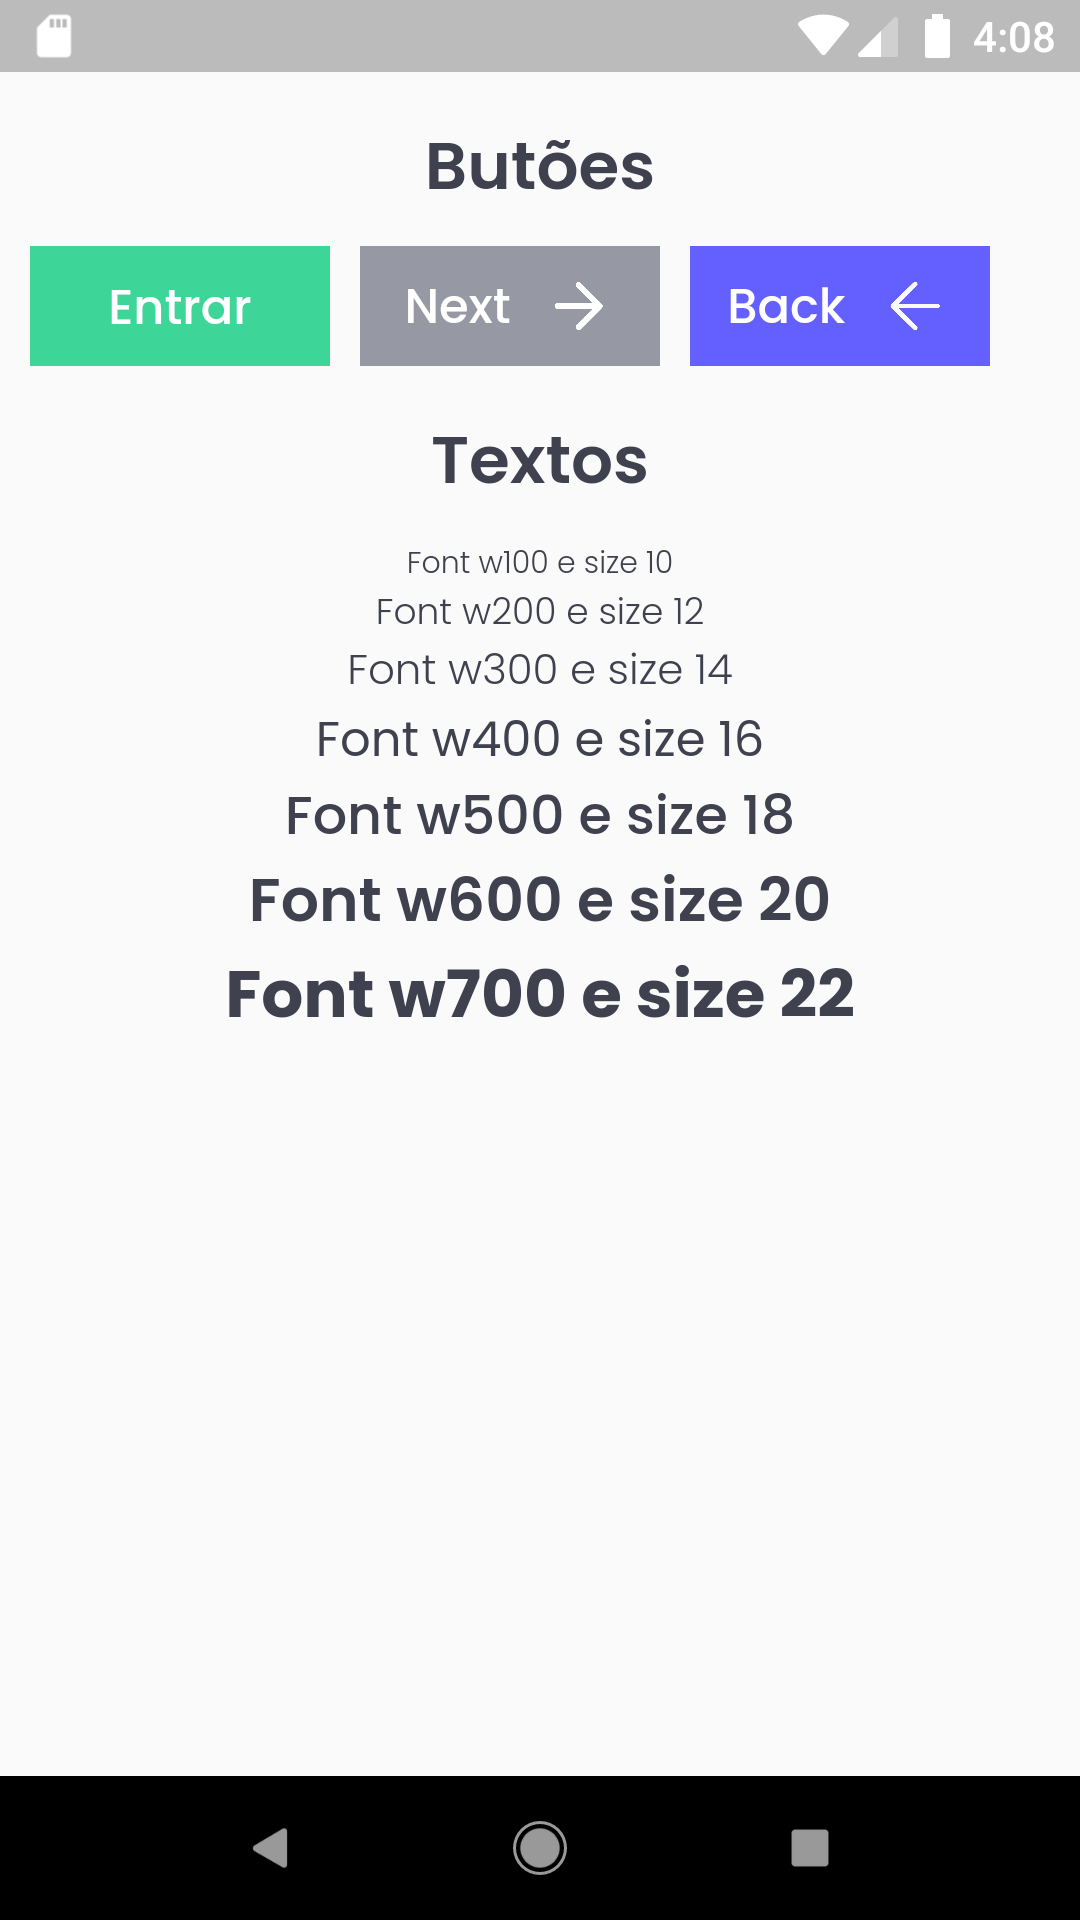
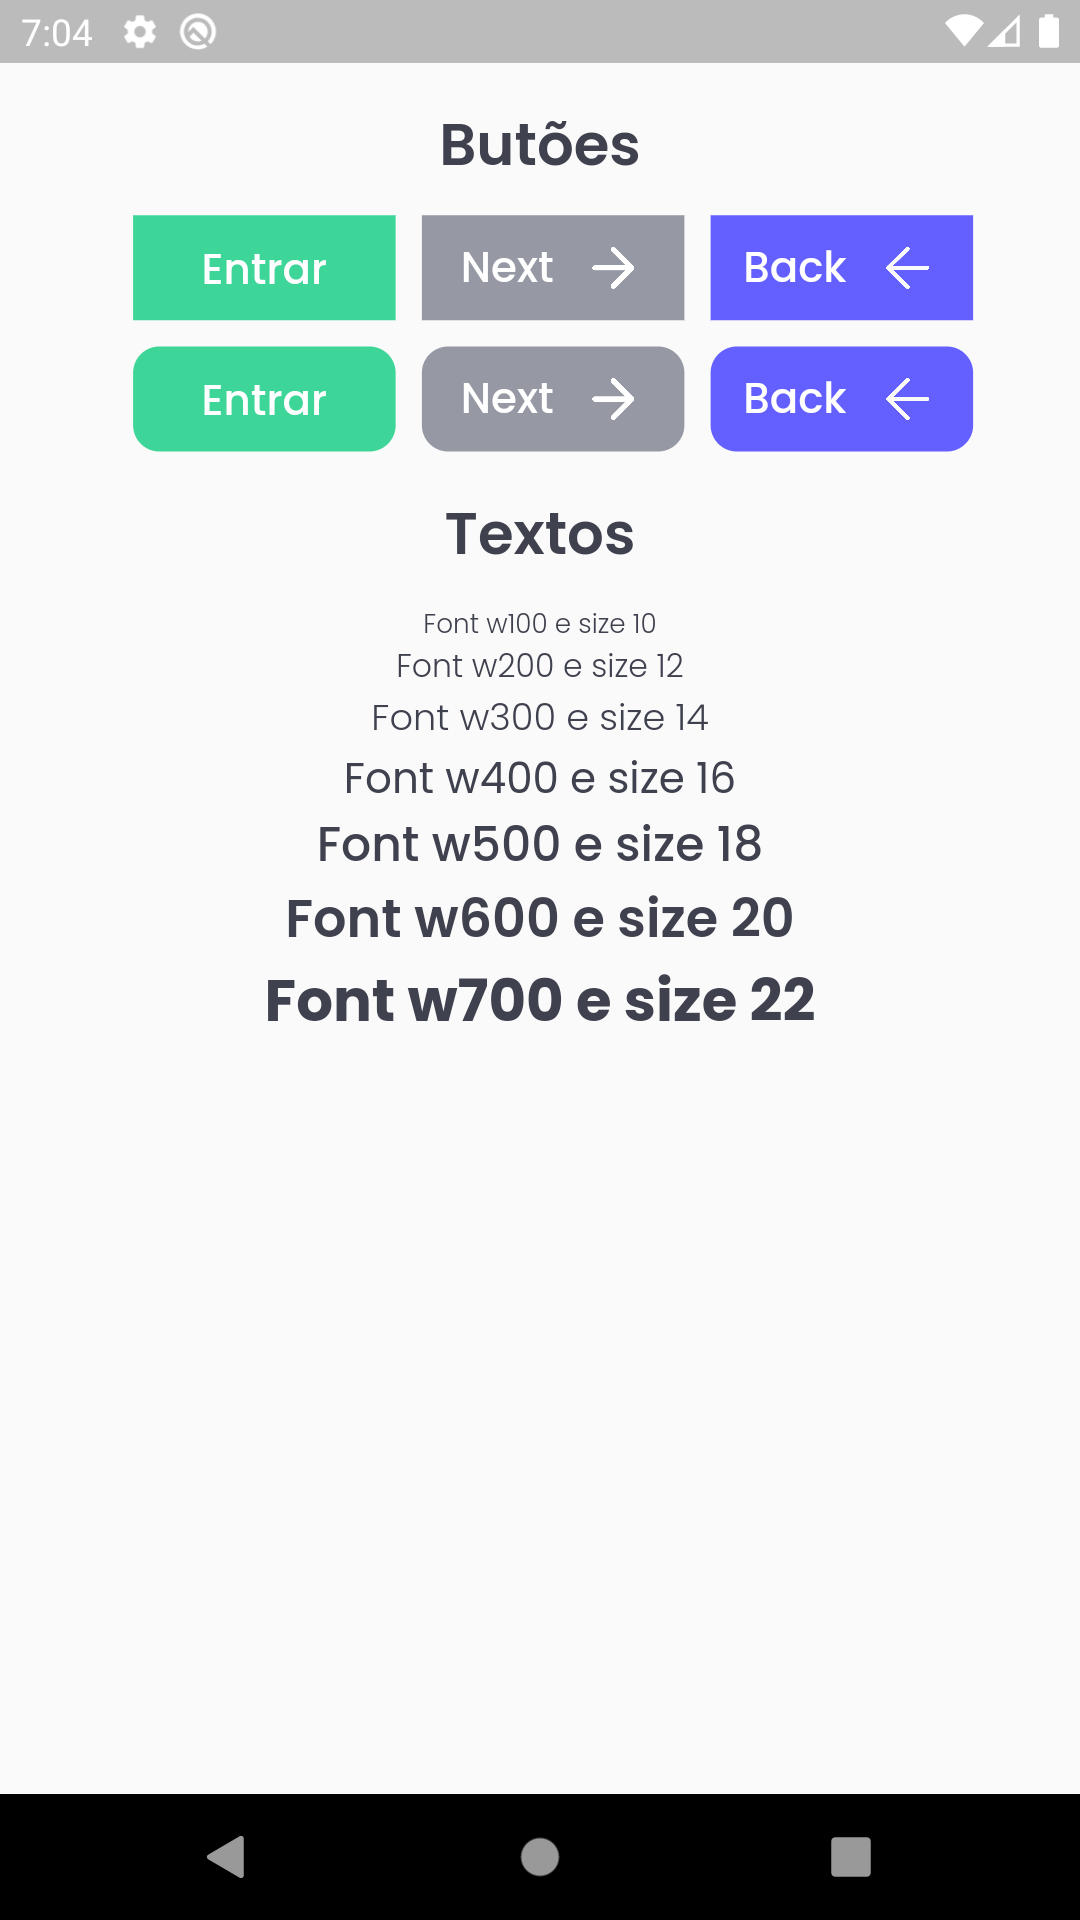
fix

Changed region(s): [[0.0, 0.0, 1.0, 0.5312], [0.0, 0.9062, 1.0, 1.0]]

diff --git a/oficina-4/biblioteca_widgets_app/lib/pages/home/home_page.dart b/oficina-4/biblioteca_widgets_app/lib/pages/home/home_page.dart
@@ -23,6 +23,7 @@ class _HomePageState extends State<HomePage> {
             ),
             SizedBox(height: 10),
             Row(
+              mainAxisAlignment: MainAxisAlignment.center,
               children: [
                 SizedBox(width: 10),
                 ButtonBase(
@@ -46,6 +47,39 @@ class _HomePageState extends State<HomePage> {
                     width: 100,
                     backgroundColor: AppColors.secondary,
                     image: AppImages.arrowLeft),
+              ],
+            ),
+            SizedBox(height: 10),
+            Row(
+              mainAxisAlignment: MainAxisAlignment.center,
+              children: [
+                SizedBox(width: 10),
+                ButtonBase(
+                  onPressed: () {},
+                  label: 'Entrar',
+                  height: 40,
+                  width: 100,
+                  backgroundColor: AppColors.primary,
+                  rounded: true,
+                ),
+                SizedBox(width: 10),
+                ButtonBase(
+                  onPressed: () {},
+                  label: 'Next',
+                  width: 100,
+                  backgroundColor: AppColors.grayscaleDetails,
+                  image: AppImages.arrowRight,
+                  rounded: true,
+                ),
+                SizedBox(width: 10),
+                ButtonBase(
+                  onPressed: () {},
+                  label: 'Back',
+                  width: 100,
+                  backgroundColor: AppColors.secondary,
+                  image: AppImages.arrowLeft,
+                  rounded: true,
+                ),
               ],
             ),
             SizedBox(height: 15),

diff --git a/oficina-4/biblioteca_widgets_app/lib/shared/widgets/button_widget.dart b/oficina-4/biblioteca_widgets_app/lib/shared/widgets/button_widget.dart
@@ -10,6 +10,7 @@ class ButtonBase extends StatelessWidget {
   Color backgroundColor;
   String image;
   VoidCallback onPressed;
+  bool rounded;
 
   ButtonBase(
       {this.width = 200,
@@ -17,7 +18,9 @@ class ButtonBase extends StatelessWidget {
       this.backgroundColor = Colors.purple,
       this.image = "",
       required this.label,
-      required this.onPressed});
+      required this.onPressed,
+      this.rounded = false
+      });
 
   @override
   Widget build(BuildContext context) {
@@ -29,9 +32,12 @@ class ButtonBase extends StatelessWidget {
 
   _buildContainer() {
     return Container(
-      color: backgroundColor,
       width: width,
       height: height,
+      decoration: BoxDecoration(
+        color: backgroundColor,
+        borderRadius: rounded ? BorderRadius.circular(10) : null
+      ),
       child: Row(
         mainAxisAlignment: MainAxisAlignment.spaceEvenly,
         children: [
